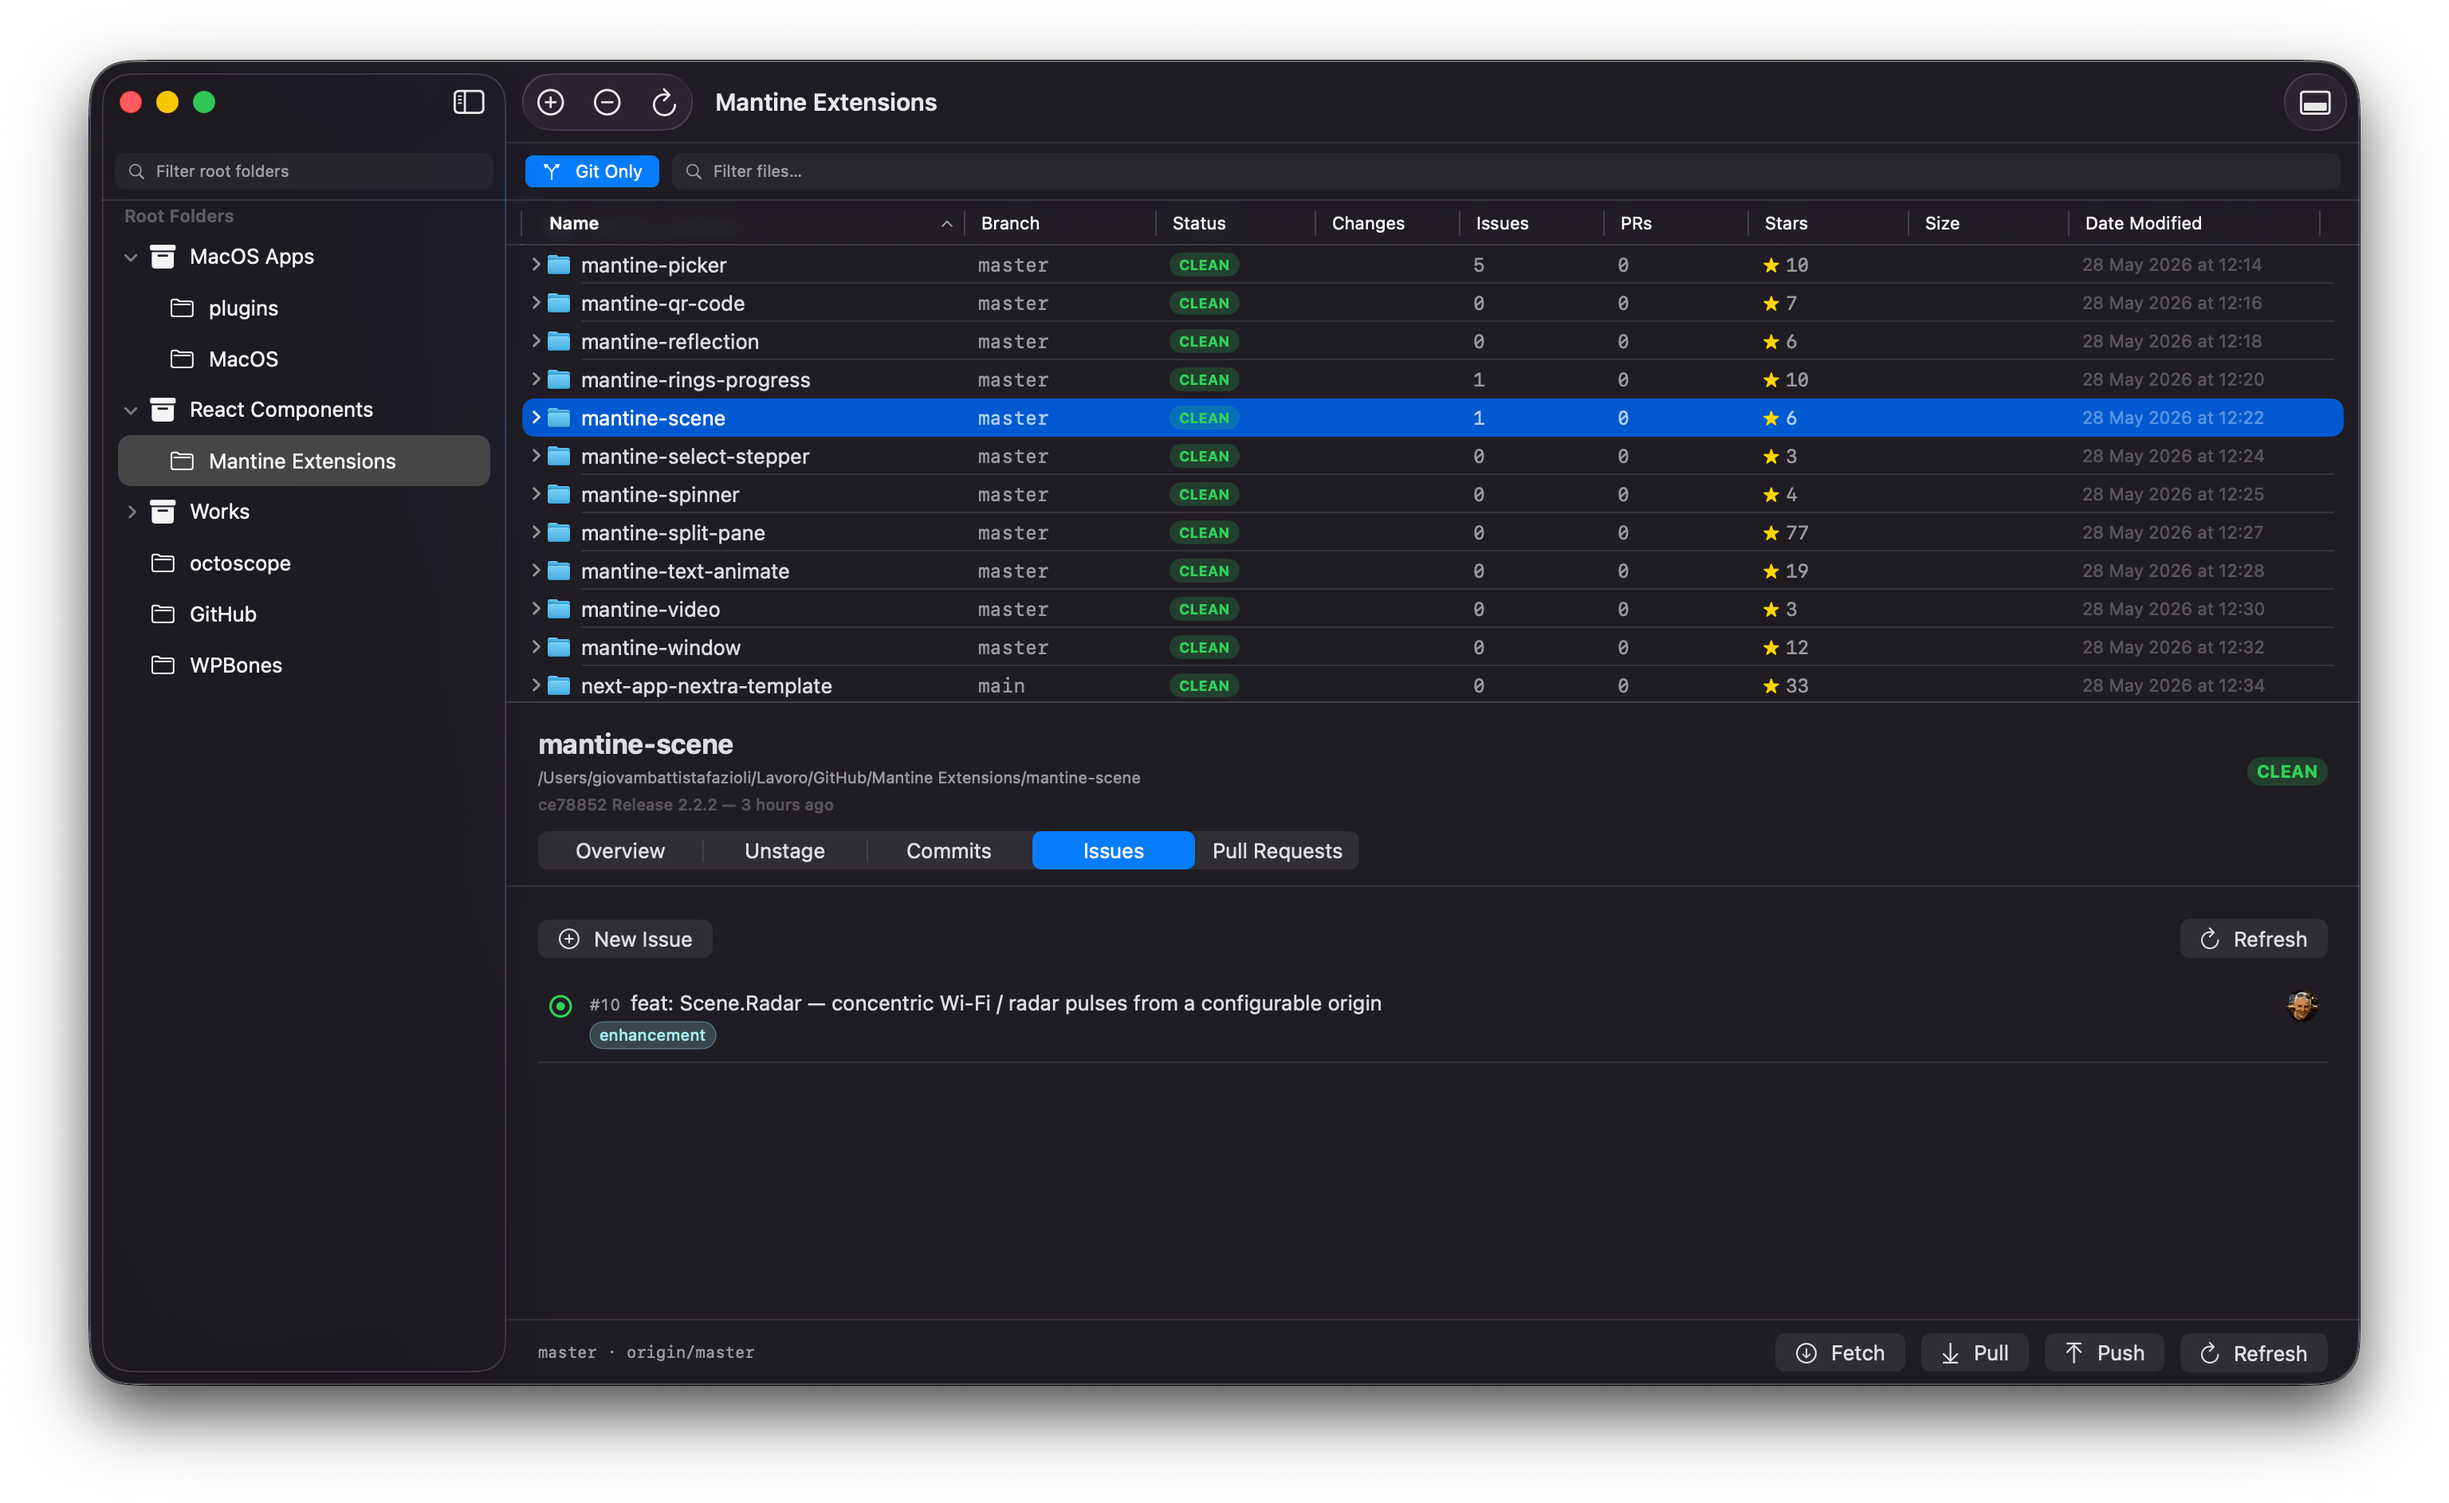
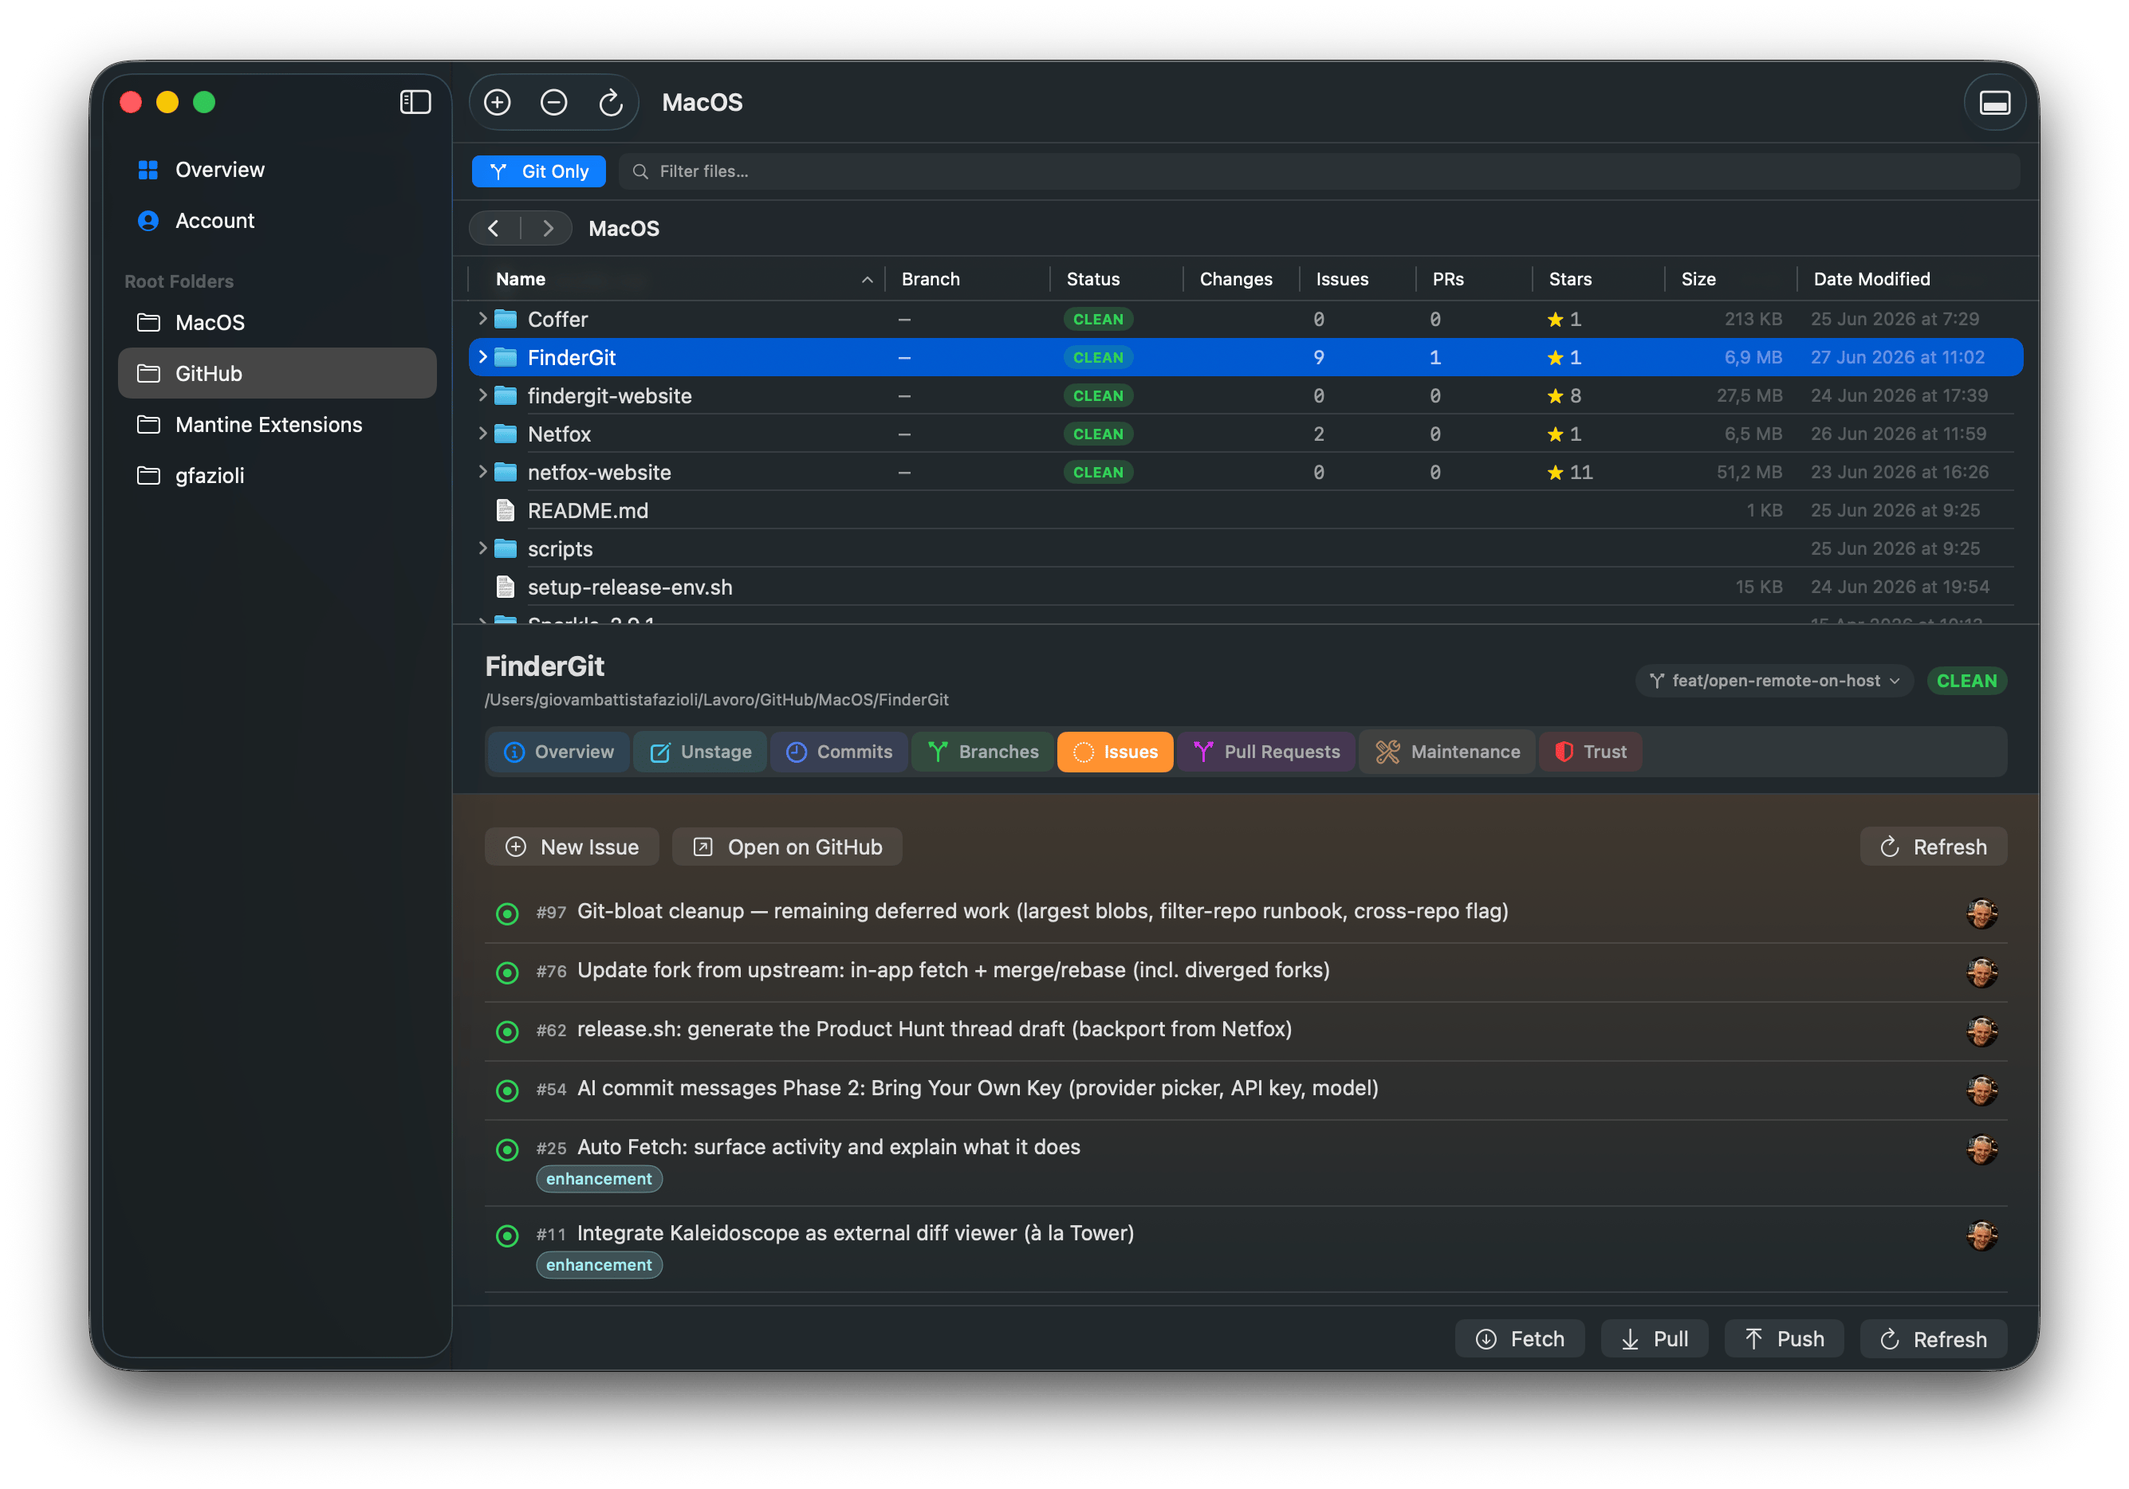
feat(sparkle): publish FinderGit v0.17.0 to appcast

diff --git a/public/release-notes/0.17.0.html b/public/release-notes/0.17.0.html
@@ -1,0 +1,99 @@
+<!DOCTYPE html>
+<html lang="en">
+<head>
+<meta charset="utf-8">
+<meta name="viewport" content="width=device-width, initial-scale=1">
+<title>FinderGit 0.17.0 — Release Notes</title>
+<style>
+  :root {
+    color-scheme: light dark;
+    --bg: #ffffff;
+    --fg: #1a1a1a;
+    --accent: #007aff;
+    --muted: #6b6b73;
+    --code-bg: #f4f4f5;
+    --border: rgba(0,0,0,0.12);
+  }
+  @media (prefers-color-scheme: dark) {
+    :root {
+      --bg: #1c1c1e;
+      --fg: #ececec;
+      --muted: #9c9ca5;
+      --code-bg: #2c2c2e;
+      --border: rgba(255,255,255,0.14);
+    }
+  }
+  * { box-sizing: border-box; }
+  body {
+    font: 14px/1.55 -apple-system, BlinkMacSystemFont, "SF Pro Text", "Helvetica Neue", sans-serif;
+    color: var(--fg);
+    background: var(--bg);
+    margin: 0 auto;
+    padding: 20px 24px 40px;
+    max-width: 720px;
+  }
+  header.page-header {
+    border-bottom: 1px solid var(--border);
+    padding-bottom: 14px;
+    margin-bottom: 22px;
+  }
+  header.page-header h1 { font-size: 1.7em; margin: 0 0 4px; letter-spacing: -0.02em; }
+  header.page-header .subtitle { color: var(--muted); margin: 0; font-size: 0.92em; }
+  h1, h2, h3, h4 { letter-spacing: -0.01em; margin: 1.5em 0 0.5em; }
+  h1 { font-size: 1.4em; }
+  h2 { font-size: 1.2em; }
+  h3 { font-size: 1em; }
+  a { color: var(--accent); }
+  hr { border: 0; border-top: 1px solid var(--border); margin: 22px 0; }
+  ul, ol { padding-left: 1.4em; }
+  li { margin: 4px 0; }
+  code {
+    font: 0.9em ui-monospace, "SF Mono", Menlo, Consolas, monospace;
+    background: var(--code-bg);
+    padding: 1px 5px;
+    border-radius: 3px;
+  }
+  pre {
+    background: var(--code-bg);
+    padding: 12px 14px;
+    border-radius: 6px;
+    overflow-x: auto;
+    font-size: 0.88em;
+  }
+  pre code { background: transparent; padding: 0; font-size: 1em; }
+  blockquote {
+    margin: 12px 0;
+    padding-left: 12px;
+    border-left: 3px solid var(--border);
+    color: var(--muted);
+  }
+  table { border-collapse: collapse; width: 100%; margin: 12px 0; font-size: 0.95em; }
+  th, td { border: 1px solid var(--border); padding: 6px 10px; text-align: left; }
+  th { background: var(--code-bg); }
+  img { max-width: 100%; }
+</style>
+</head>
+<body>
+<header class="page-header">
+  <h1>FinderGit 0.17.0</h1>
+  <p class="subtitle">Release notes</p>
+</header>
+<p>FinderGit 0.17.0 — Open on GitHub</p>
+<h2>Highlights</h2>
+<ul>
+<li>🌐 <strong>Open on GitHub</strong> — jump from a repository straight to its page on the web, right from the <strong>right-click menu</strong> and the <strong>Overview</strong> tab.</li>
+<li>🔗 The <strong>Issues</strong> and <strong>Pull Requests</strong> tabs get it too: an <strong>Open on GitHub</strong> button opens the full list online (and clicking any row already opens that issue or PR).</li>
+<li>🏷 <strong>Host-aware</strong> — the label and link follow your remote's host, so it reads <em>Open on GitHub</em>, <em>GitLab</em>, or <em>Bitbucket</em> and opens the right page. It only appears when the repo has a recognized remote.</li>
+</ul>
+<h2>Under the hood</h2>
+<ul>
+<li>A new per-repo store resolves each repository's remote (owner / repo / host) so the context menu can offer the action instantly; the URLs derive from the parsed remote, with host-specific paths for GitLab (<code class="notranslate">/-/…</code>) and Bitbucket.</li>
+</ul>
+<h2>Install</h2>
+<p>Download the DMG below, drag <strong>FinderGit</strong> to your Applications folder, and launch it. Existing installs update automatically.</p>
+<h2>Requirements</h2>
+<ul>
+<li>macOS 15 (Sequoia) or later.</li>
+</ul>
+</body>
+</html>

diff --git a/config/index.ts b/config/index.ts
@@ -90,7 +90,7 @@ export default {
     defaultLanguage: 'en',
   },
   app: {
-    version: '0.16.3',
+    version: '0.17.0',
     minMacOS: '15.0',
     downloadUrl: 'https://github.com/gfazioli/findergit-website/releases/latest',
   },
